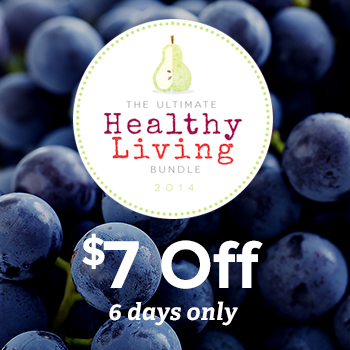
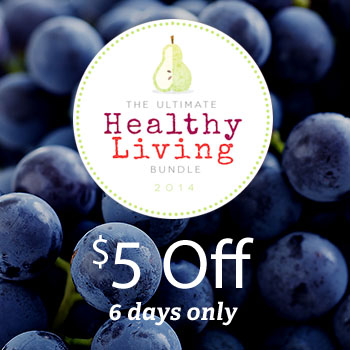
Update the first reward to  off

diff --git a/app/models/user.rb b/app/models/user.rb
@@ -13,7 +13,7 @@ class User < ActiveRecord::Base
     REFERRAL_STEPS = [
         {
             'count' => 1,
-            "html" => "$7 Off<br>the Bundle",
+            "html" => "$5 Off<br>the Bundle",
             "class" => "two",
             "image" =>  "refer/hover1.jpg"
         },
